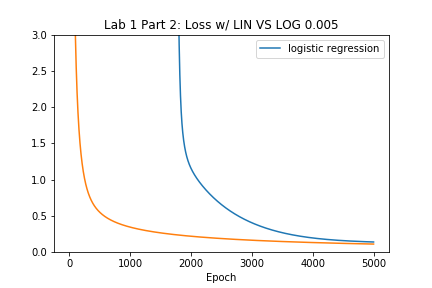
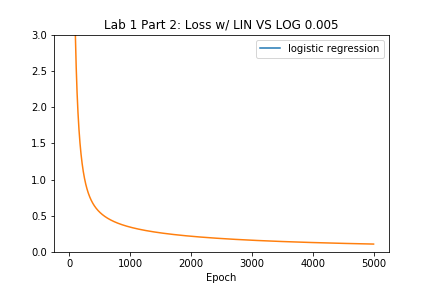
Update before huge change

diff --git a/LAB1/a1/starter.py b/LAB1/a1/starter.py
@@ -64,7 +64,7 @@ def crossEntropyLoss(W, b, x, y, reg):
 #     W.reshape((-1,1))
 # =============================================================================
     #print(np.shape(x), np.shape(W), np.shape(y))
-    loss =(((-1)*y * safelog(sigmoidZ(x,W,b))) - ((1-y) * safelog(1-sigmoidZ(x,W,b))))
+    loss =(((-1)*(y * safelog(sigmoidZ(x,W,b)))) - ((1-y) * safelog(1-sigmoidZ(x,W,b))))
     #print(np.shape(loss))
     loss = np.sum(loss)*(1/len(y))
     loss += (reg/2)*(np.linalg.norm(W)**2)
@@ -75,12 +75,13 @@ def gradCE(W, b, x, y, reg):
 
     # =============================================================================
     sigmoid = sigmoidZ(x,W,b).clip(max = 1 - np.finfo(np.float).eps)
-    gradB = (1/len(y))*(sigmoid ** 2) *np.exp(-1 *((x@W) + b))
+    gradB = (1/len(y))*(sigmoid ** 2) *np.exp(-1 *(x@W + b))
     gradB *= (((-1 * y) /sigmoid)+((1-y)/(1-sigmoid)))
     gradW = x.transpose() @ gradB
     gradB = np.sum(gradB)
     #print("Shape of gradW is: ", np.shape(gradW), "shape of W is: ", np.shape(W))
     gradW += reg*W
+    #print(gradW)
     return gradW, gradB
 # =============================================================================
 
@@ -168,7 +169,7 @@ def grad_descent(W, b, trainingData, trainingLabels, validData, validTarget, tes
             if wDiff < EPS:
                 break
             gradW, gradB = gradCE(W,b,x,trainingLabels,reg)
-            W_new = W - alpha*gradW
+            W_new = np.subtract(W,alpha*gradW)
             wDiff = np.linalg.norm(W-W_new)
             
             W = W_new
@@ -257,7 +258,7 @@ def main():
         return np.sum(((((W.transpose() @ x.transpose()) + b).transpose() > 0.5).astype(int) ==y).astype(int)) / x.shape[0]
     
     
-    W,b, errors, accuracies, valErr, testErr = grad_descent(W, b, trainData, trainTarget, validData, validTarget, testData, testTarget, 0.005, 5000, 0, 10**-7, "LOG")
+    W,b, errors, accuracies, valErr, testErr = grad_descent(W, b, trainData, trainTarget, validData, validTarget, testData, testTarget, 0.005, 5000, 0.1, 10**-7, "LOG")
     plotLab(errors,accuracies,0.005,"2",True, True, "logistic regression", "LIN VS LOG")
     b_2 = 0
     W_2,b_2, errors, accuracies, valErr, testErr = grad_descent(W_2, b_2, trainData, trainTarget, validData, validTarget, testData, testTarget, 0.005, 5000, 0, 10**-7, "LIN")
